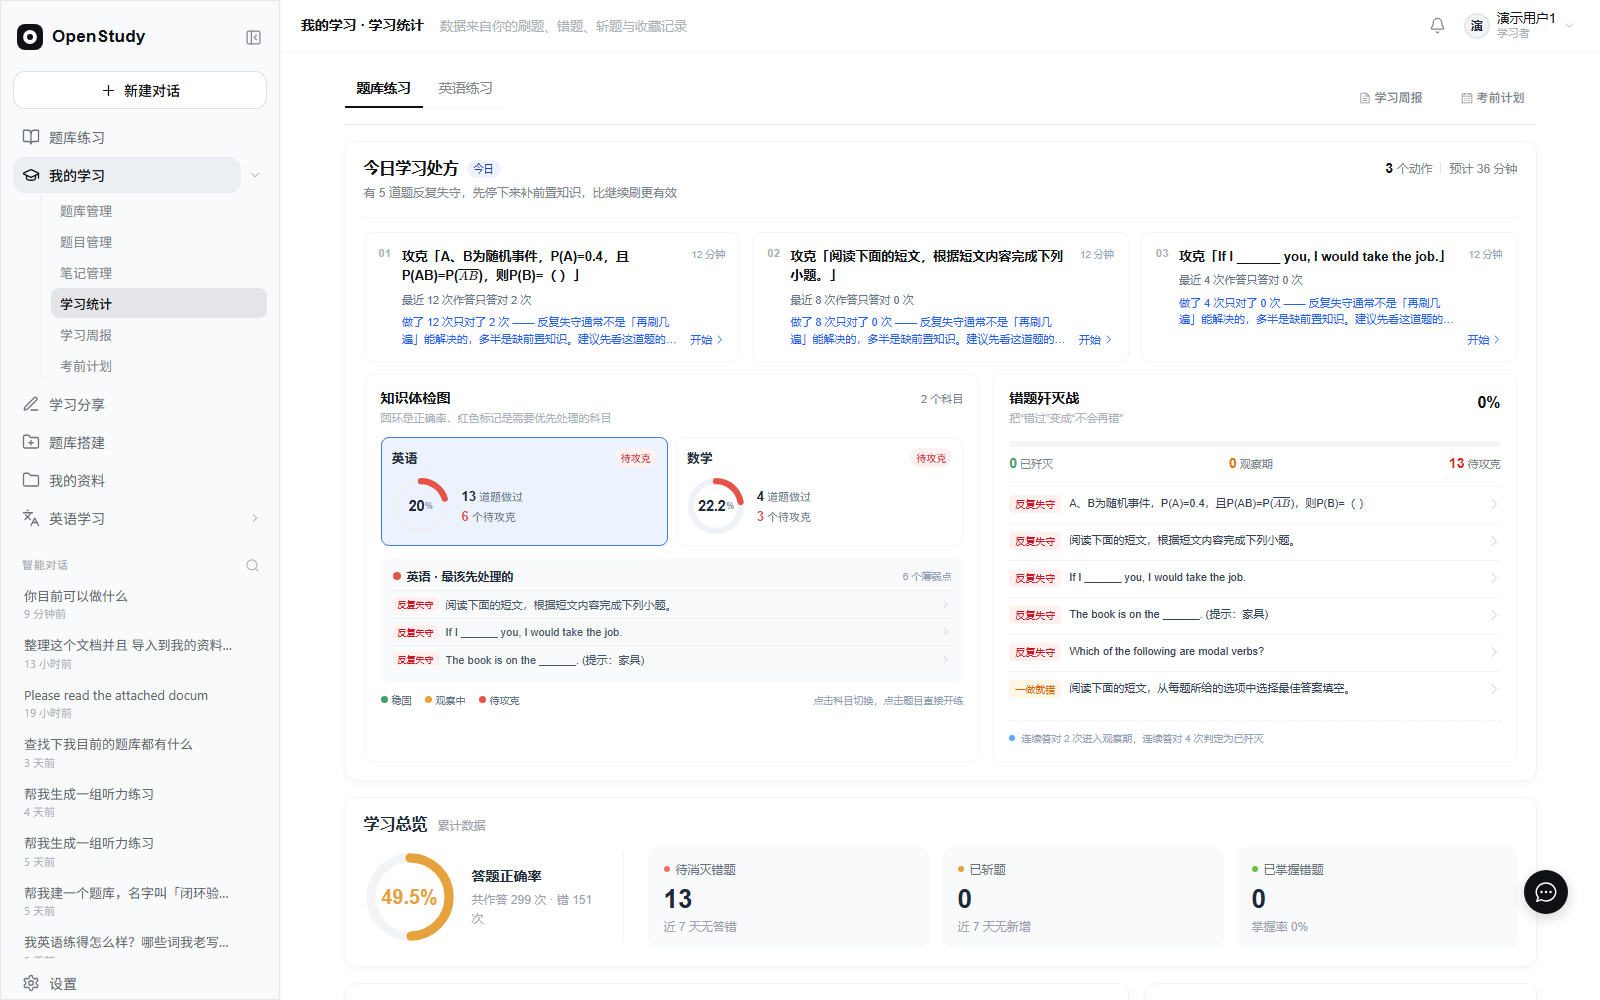
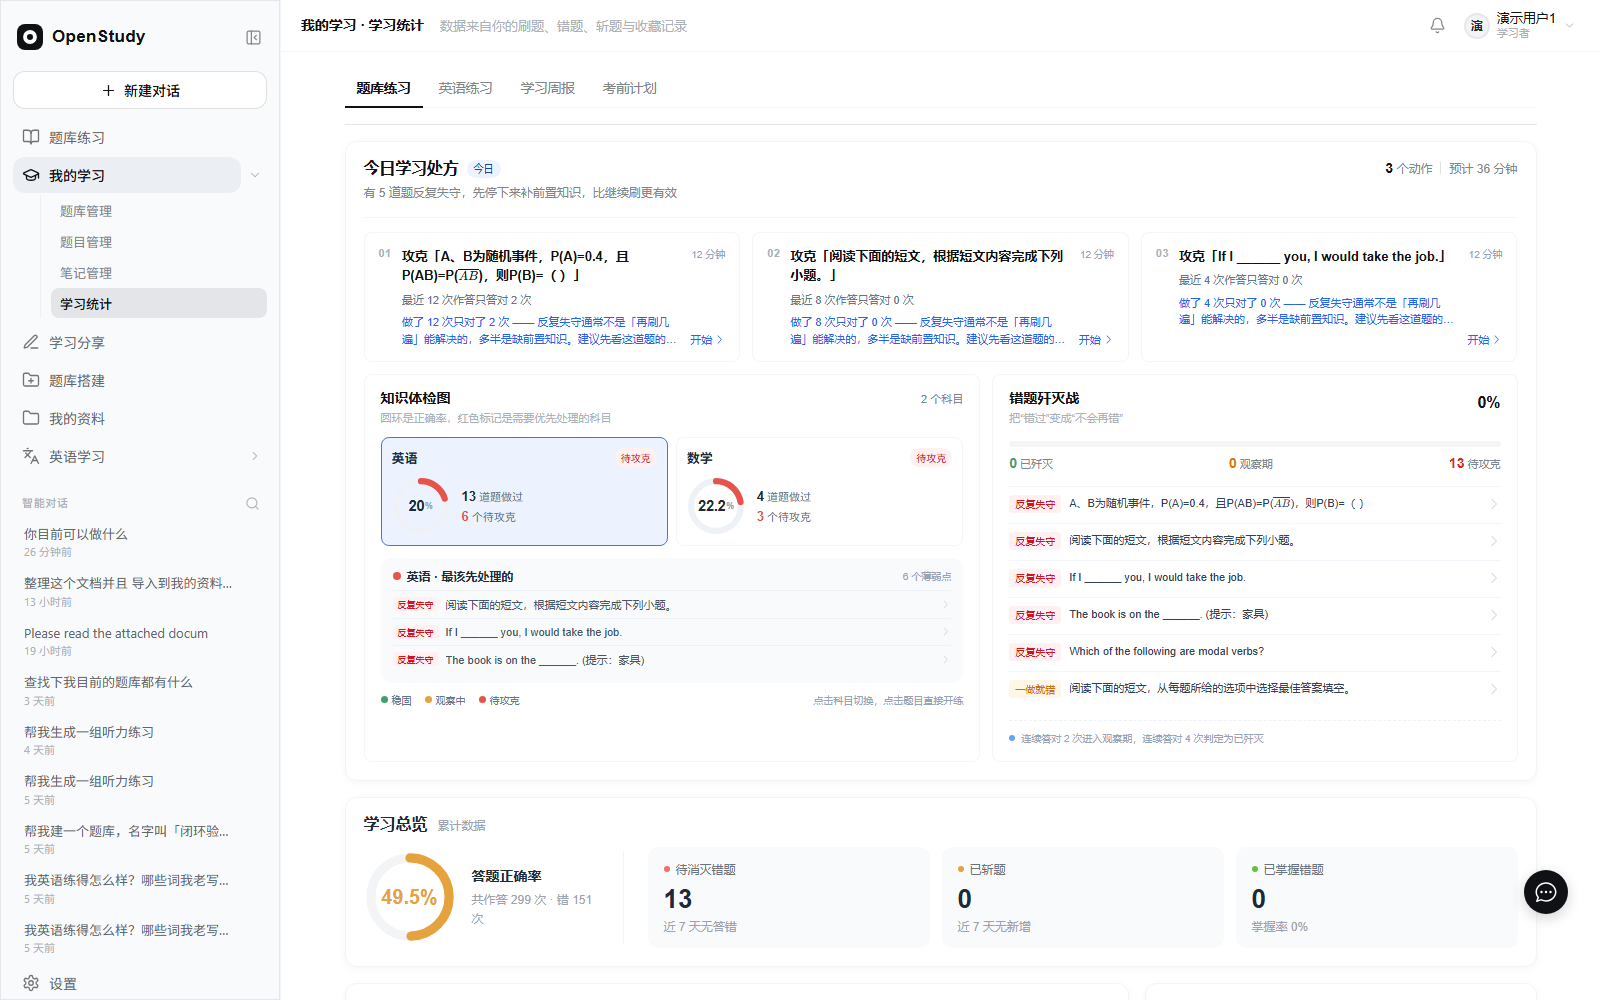
学习周报与考前计划并入学习统计 tab，移除独立入口

Changed region(s): [[0.0, 0.31, 0.1562, 0.961], [0.8438, 0.093, 0.9688, 0.124], [0.3125, 0.062, 0.4062, 0.093]]

diff --git a/openstudy-vue3-ts/src/views/front/myQuestion/myStats/index.vue b/openstudy-vue3-ts/src/views/front/myQuestion/myStats/index.vue
@@ -27,16 +27,6 @@
         -->
         <div class="stats-tabs">
             <SegmentedTabs v-model="activeTab" :tabs="tabList" @change="onTabChange" />
-            <div class="stats-tabs-actions">
-                <el-button text size="small" @click="router.push('/front/myQuestion/weeklyReport')">
-                    <el-icon><Document /></el-icon>
-                    学习周报
-                </el-button>
-                <el-button text size="small" @click="router.push('/front/myQuestion/examPlan')">
-                    <el-icon><Calendar /></el-icon>
-                    考前计划
-                </el-button>
-            </div>
         </div>
 
         <!-- ==================== Tab 1：题库练习 ==================== -->
@@ -260,6 +250,16 @@
                 @loaded="onEnglishLoaded"
             />
         </div>
+
+        <!-- ==================== Tab 3：学习周报 ==================== -->
+        <div v-show="activeTab === 'weekly'" class="tab-pane">
+            <WeeklyReportPanel v-if="tabSeen.weekly" />
+        </div>
+
+        <!-- ==================== Tab 4：考前计划 ==================== -->
+        <div v-show="activeTab === 'exam'" class="tab-pane">
+            <ExamPlanPanel v-if="tabSeen.exam" />
+        </div>
     </div>
 </template>
 
@@ -269,9 +269,11 @@ import { ref, computed, reactive, watch, onMounted, onUnmounted, nextTick } from
 import useTopbarStore from '@/store/modules/topbar'
 import { useRouter } from 'vue-router'
 import * as echarts from 'echarts'
-import { TrendCharts, ArrowRight, Document, Calendar } from '@element-plus/icons-vue'
+import { TrendCharts, ArrowRight } from '@element-plus/icons-vue'
 import SegmentedTabs from '@/components/SegmentedTabs/index.vue'
 import EnglishStatistics from '@/views/front/english/statistics/index.vue'
+import WeeklyReportPanel from './components/WeeklyReportPanel.vue'
+import ExamPlanPanel from './components/ExamPlanPanel.vue'
 // 学情诊断面板（2026-10-26 v3）：把后端逐题诊断画成页内图表，而不是下载 PDF
 import DiagnosisPanel from './components/DiagnosisPanel.vue'
 import LearningLoopPanel from './components/LearningLoopPanel.vue'
@@ -304,12 +306,12 @@ const router = useRouter()
  *
  * 所以切换时不需要互相同步，只要保证英语那边**第一次切过去才加载**。
  * ========================================================================== */
-type StatsTab = 'bank' | 'english'
+type StatsTab = 'bank' | 'english' | 'weekly' | 'exam'
 
 const activeTab = ref<StatsTab>('bank')
 
-/** 各 tab 是否已挂载过（英语 tab 懒挂载的关键） */
-const tabSeen = reactive({ bank: true, english: false })
+/** 各 tab 是否已挂载过（图表/重组件懒挂载的关键） */
+const tabSeen = reactive({ bank: true, english: false, weekly: false, exam: false })
 
 /** 题库数据是否已经拉过（决定切回 tab 时要不要补拉） */
 const bankLoaded = ref(false)
@@ -318,7 +320,9 @@ const englishStatsRef = ref<any>(null)
 
 const tabList = [
     { key: 'bank', label: '题库练习' },
-    { key: 'english', label: '英语练习' }
+    { key: 'english', label: '英语练习' },
+    { key: 'weekly', label: '学习周报' },
+    { key: 'exam', label: '考前计划' }
 ]
 
 /*
@@ -329,11 +333,13 @@ const tabList = [
  * 副标题还写着"刷题/斩题"，就文不对题了。
  */
 function syncTopbarSubtitle() {
-    topbarStore.setCount(
-        activeTab.value === 'english'
-            ? '数据来自你的单词听写与阅读练习'
-            : '数据来自你的刷题、错题、斩题与收藏记录'
-    )
+    const subtitleMap: Record<StatsTab, string> = {
+        bank: '数据来自你的刷题、错题、斩题与收藏记录',
+        english: '数据来自你的单词听写与阅读练习',
+        weekly: '最近 7 天的真实学习记录，可以保存成图片',
+        exam: '输入考试日期，按你的薄弱点倒排每天该做什么'
+    }
+    topbarStore.setCount(subtitleMap[activeTab.value])
 }
 
 function onTabChange(key: string) {
@@ -361,6 +367,12 @@ function onTabChange(key: string) {
             // 已经挂载过：回来时刷新一次，避免看到过期数据
             nextTick(() => englishStatsRef.value?.refresh?.())
         }
+        return
+    }
+
+    // 周报 / 考前计划是懒挂载的独立面板，不依赖题库图表
+    if (k === 'weekly' || k === 'exam') {
+        tabSeen[k] = true
         return
     }
 
@@ -404,6 +416,9 @@ function applyTabFromQuery() {
         }
     } else if (t === 'bank') {
         activeTab.value = 'bank'
+    } else if (t === 'weekly' || t === 'exam') {
+        activeTab.value = t
+        tabSeen[t] = true
     }
     // 副标题跟着一起变，否则会显示题库那句说明
     syncTopbarSubtitle()
@@ -413,7 +428,7 @@ function applyTabFromQuery() {
 watch(
     () => router.currentRoute.value.query.tab,
     (t) => {
-        if (t === 'english' || t === 'bank') applyTabFromQuery()
+        if (t === 'english' || t === 'bank' || t === 'weekly' || t === 'exam') applyTabFromQuery()
     }
 )
 
@@ -846,34 +861,9 @@ onUnmounted(() => {
      * 保持一致（都是 SegmentedTabs）—— 用户在同一批页面间切换时不需要重新认。
      */
     .stats-tabs {
-        display: flex;
-        align-items: center;
-        justify-content: space-between;
-        gap: 16px;
         margin-bottom: 16px;
         border-bottom: 1px solid var(--os-border, #eef0f3);
         padding-bottom: 2px;
-    }
-
-    .stats-tabs-actions {
-        display: flex;
-        align-items: center;
-        gap: 2px;
-        flex: none;
-
-        .el-button {
-            height: 30px;
-            color: var(--os-text-3, #81858c);
-            font-size: 12px;
-
-            &:hover {
-                color: var(--os-text, #0f1115);
-            }
-
-            .el-icon {
-                margin-right: 4px;
-            }
-        }
     }
 
     .tab-pane {

diff --git a/openstudy-vue3-ts/src/views/front/myQuestion/myStats/components/WeeklyReportPanel.vue b/openstudy-vue3-ts/src/views/front/myQuestion/myStats/components/WeeklyReportPanel.vue
@@ -1,18 +1,5 @@
 <template>
-  <div class="weekly-page">
-    <div class="weekly-toolbar">
-      <el-button text class="back-btn" @click="goBack">
-        <el-icon><ArrowLeft /></el-icon>
-        学习统计
-      </el-button>
-      <div class="weekly-toolbar-right">
-        <el-button size="small" :loading="exporting" @click="downloadImage">
-          <el-icon><Download /></el-icon>
-          保存为图片
-        </el-button>
-      </div>
-    </div>
-
+  <div class="weekly-panel">
     <div v-if="loading" class="weekly-loading" v-loading="true"></div>
 
     <div v-else-if="!data || !data.hasData" class="weekly-empty">
@@ -31,7 +18,13 @@
             <span v-if="!data.range.isCurrent" class="report-range-tag">最近一次学习</span>
           </div>
         </div>
-        <span class="report-generated">生成于 {{ data.generatedAt.slice(0, 10) }}</span>
+        <div class="report-head-right">
+          <span class="report-generated">生成于 {{ data.generatedAt.slice(0, 10) }}</span>
+          <el-button size="small" :loading="exporting" @click="downloadImage">
+            <el-icon><Download /></el-icon>
+            保存为图片
+          </el-button>
+        </div>
       </header>
 
       <p class="report-headline">{{ data.headline }}</p>
@@ -157,7 +150,7 @@
 <script setup lang="ts">
 import { computed, onMounted, ref } from 'vue'
 import { useRouter } from 'vue-router'
-import { ArrowLeft, Download } from '@element-plus/icons-vue'
+import { Download } from '@element-plus/icons-vue'
 import html2canvas from 'html2canvas'
 import { ElMessage } from 'element-plus'
 import { getWeeklyReport, type WeeklyReportResult } from '@/api/userStats/userStats'
@@ -177,7 +170,6 @@ function barHeight(value: number) {
   return Math.max(6, Math.round((value / maxDaily.value) * 100))
 }
 
-const goBack = () => router.push('/front/myQuestion/myStats')
 const goPractice = () => router.push('/front/questionPractice')
 
 async function load() {
@@ -219,34 +211,8 @@ onMounted(load)
 </script>
 
 <style scoped>
-.weekly-page {
-  max-width: 980px;
-  margin: 0 auto;
-  padding: 0 16px 48px;
-}
-
-.weekly-toolbar {
-  display: flex;
-  align-items: center;
-  justify-content: space-between;
-  margin-bottom: 12px;
-}
-
-.weekly-toolbar-right {
-  display: flex;
-  align-items: center;
-  gap: 10px;
-}
-
-.weekly-toolbar-hint {
-  color: var(--os-text-4, #adb2b8);
-  font-size: 11px;
-}
-
-.back-btn {
-  height: 30px;
-  color: var(--os-text-3, #81858c);
-  font-size: 12px;
+.weekly-panel {
+  width: 100%;
 }
 
 .weekly-loading {
@@ -305,6 +271,13 @@ onMounted(load)
   gap: 16px;
   padding-bottom: 14px;
   border-bottom: 1px solid var(--os-border-soft, rgba(0, 0, 0, 0.04));
+}
+
+.report-head-right {
+  display: flex;
+  align-items: center;
+  gap: 10px;
+  flex: none;
 }
 
 .report-title-row {

diff --git a/openstudy-vue3-ts/src/views/front/myQuestion/myStats/components/ExamPlanPanel.vue b/openstudy-vue3-ts/src/views/front/myQuestion/myStats/components/ExamPlanPanel.vue
@@ -1,12 +1,5 @@
 <template>
-  <div class="exam-page">
-    <div class="exam-toolbar">
-      <el-button text class="back-btn" @click="goStats">
-        <el-icon><ArrowLeft /></el-icon>
-        学习统计
-      </el-button>
-    </div>
-
+  <div class="exam-panel">
     <div class="exam-layout">
       <aside class="exam-form">
         <h2 class="exam-form-title">设置考试信息</h2>
@@ -169,7 +162,6 @@
 <script setup lang="ts">
 import { onMounted, reactive, ref } from 'vue'
 import { useRouter } from 'vue-router'
-import { ArrowLeft } from '@element-plus/icons-vue'
 import { ElMessage } from 'element-plus'
 import { getExamPlan, getLearningLoop, type ExamPlanResult, type ExamPlanTask } from '@/api/userStats/userStats'
 import { renderQuestionContent } from '@/utils/latex'
@@ -260,35 +252,14 @@ function openTask(task: ExamPlanTask) {
   })
 }
 
-const goStats = () => router.push('/front/myQuestion/myStats')
 const goPractice = () => router.push('/front/questionPractice')
 
 onMounted(loadSubjects)
 </script>
 
 <style scoped>
-.exam-page {
-  max-width: 1180px;
-  margin: 0 auto;
-  padding: 0 20px 56px;
-}
-
-.exam-toolbar {
-  display: flex;
-  align-items: center;
-  justify-content: space-between;
-  margin-bottom: 12px;
-}
-
-.back-btn {
-  height: 30px;
-  color: var(--os-text-3, #81858c);
-  font-size: 12px;
-}
-
-.exam-toolbar-hint {
-  color: var(--os-text-4, #adb2b8);
-  font-size: 11px;
+.exam-panel {
+  width: 100%;
 }
 
 .exam-layout {

diff --git a/openstudy-vue3-ts/src/router/index.ts b/openstudy-vue3-ts/src/router/index.ts
@@ -475,16 +475,24 @@ export const constantRoutes: AppRouteRecordRaw[] = [
             hidden: true
           },
           {
+            /* 旧的独立周报页已并入「学习统计」的第三个 tab；保留路径只做兼容跳转 */
             path: 'weeklyReport',
             name: 'FrontWeeklyReport',
-            component: () => import('@/views/front/myQuestion/weeklyReport/index.vue'),
+            redirect: (to) => ({
+              path: '/front/myQuestion/myStats',
+              query: { ...to.query, tab: 'weekly' }
+            }),
             meta: { title: '学习周报', layout: 'front' },
             hidden: true
           },
           {
+            /* 旧的独立考前计划页已并入「学习统计」的第四个 tab */
             path: 'examPlan',
             name: 'FrontExamPlan',
-            component: () => import('@/views/front/myQuestion/examPlan/index.vue'),
+            redirect: (to) => ({
+              path: '/front/myQuestion/myStats',
+              query: { ...to.query, tab: 'exam' }
+            }),
             meta: { title: '考前计划', layout: 'front' },
             hidden: true
           }

diff --git a/openstudy-vue3-ts/src/layout/front.vue b/openstudy-vue3-ts/src/layout/front.vue
@@ -401,9 +401,7 @@ const MY_LEARNING_SUB: Array<[string, string]> = [
   ['/front/myQuestion/noteManage', '笔记管理'],
   ['/front/myQuestion/myNotes', '笔记管理'],
   ['/front/myQuestion/favoriteNote', '笔记管理'],
-  ['/front/myQuestion/myStats', '学习统计'],
-  ['/front/myQuestion/weeklyReport', '学习周报'],
-  ['/front/myQuestion/examPlan', '考前计划']
+  ['/front/myQuestion/myStats', '学习统计']
 ]
 
 /**
@@ -449,8 +447,6 @@ const SECOND_LEVEL_HINT: Record<string, string> = {
   FrontEnglishVocabulary: '把要背的单词整理成词库，之后可以听写、也可以让 AI 用它们出题',
   FrontEnglishListening: '听中文发音写英文单词，练的是拼写和反应',
   FrontEnglishReading: '给一个主题，AI 生成短文和选择题，做完立刻看解析',
-  FrontWeeklyReport: '最近 7 天的真实学习记录，可以保存成图片带走',
-  FrontExamPlan: '输入考试日期，按你的薄弱点倒排每天该做什么',
   FrontMicroCourse: '按原文结构把一份资料拆成可以一站一站学的路径'
 }
 

diff --git a/openstudy-vue3-ts/src/components/FrontSidebar/index.vue b/openstudy-vue3-ts/src/components/FrontSidebar/index.vue
@@ -464,9 +464,7 @@ const featureItems: NavItem[] = [
        * 收藏是笔记管理的第二个分组，不该在侧栏再占一行。
        */
       { label: '笔记管理', to: '/front/myQuestion/noteManage?tab=own', cacheKey: 'noteManage' },
-      { label: '学习统计', to: '/front/myQuestion/myStats', cacheKey: 'myStats' },
-      { label: '学习周报', to: '/front/myQuestion/weeklyReport', cacheKey: 'weeklyReport' },
-      { label: '考前计划', to: '/front/myQuestion/examPlan', cacheKey: 'examPlan' }
+      { label: '学习统计', to: '/front/myQuestion/myStats', cacheKey: 'myStats' }
     ]
   },
   {
